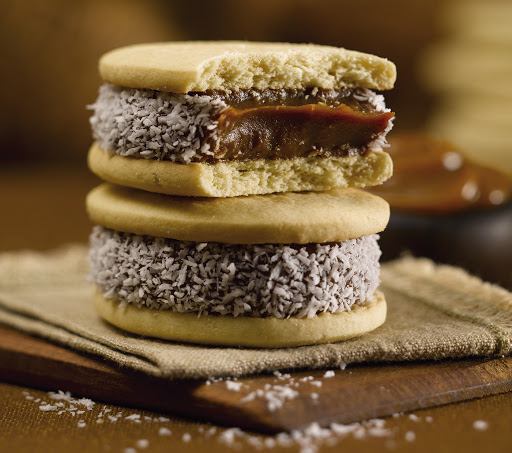
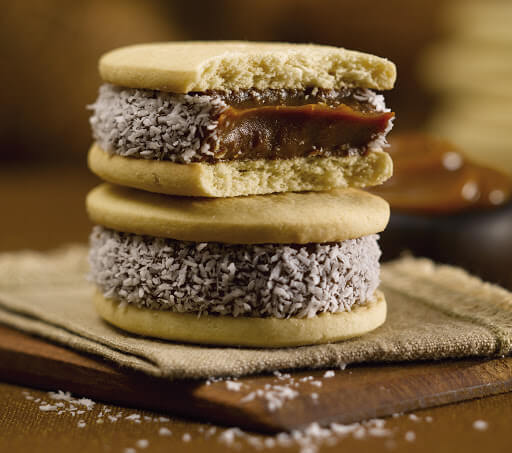
Optimice las img y agregue php

diff --git a/index.html b/index.html
@@ -26,6 +26,77 @@
   <link href="https://unpkg.com/aos@2.3.1/dist/aos.css" rel="stylesheet">
   <!--Tittle-->
   <title>Cachafaz - Responsables de sacarte las ganas de comer algo dulce</title>
+  <!--Estilo del formulario-->
+  <style>
+    form {
+  /* Centrar el formulario en la página */
+  margin: 1rem auto;
+  width: auto;
+
+}
+
+ul {
+  list-style: none;
+  padding: 0;
+  margin: 0;
+}
+
+form li + li {
+  margin-top: 1rem;
+}
+
+label {
+  /* Tamaño y alineación uniforme */
+  display: inline-block;
+  width: 4rem;
+  text-align: center;
+  
+}
+
+input,
+textarea {
+  /* Para asegurarse de que todos los campos de texto tienen la misma configuración de letra
+     Por defecto, las áreas de texto tienen un tipo de letra monoespaciada 
+  font: 1em sans-serif; */
+
+  /* Tamaño uniforme del campo de texto */
+  width: 20rem;
+  box-sizing: border-box;
+  background-color: rgba(197, 161, 71, 0.726);
+
+  /* Hacer coincidir los bordes del campo del formulario */
+  border: 1px solid black;
+  border-radius: 0.2rem;
+}
+
+input:focus,
+textarea:focus {
+  /* Destacado adicional para elementos que tienen el cursor */
+  border-color: #000;
+}
+
+textarea {
+  /* Alinear los campos de texto multilínea con sus etiquetas */
+  vertical-align: top;
+
+  /* Proporcionar espacio para escribir texto */
+  height: 5rem;
+}
+
+.button {
+  /* Alinear los botones con los campos de texto */
+  padding-left: 90px; /* mismo tamaño que los elementos de la etiqueta */
+}
+
+button {
+  /* Este margen adicional representa aproximadamente el mismo espacio que el espacio
+     entre las etiquetas y sus campos de texto */
+  border: 2px outset black;
+  padding: 0.2rem;
+  background-color: rgba(197, 161, 71, 0.726);
+  color: #000;
+}
+  </style>
 </head>
 
 <body>
@@ -75,7 +146,7 @@
             alfajores que en un primer momento era de maicena.
           </p>
           <p class="bottom link-nosotros">
-            <a href="/pages/nosotros.html" title="Acceso directo a la pestaña Quienes Somos"> Saber más.</a>
+            <a href="nosotros.html" title="Acceso directo a la pestaña Quienes Somos"> Saber más.</a>
           </p>
         </div>
 
@@ -93,7 +164,7 @@
             <li>Algunos productos son aptos para celiacos.</li>
             <li>Multiples Variedades.</li>
           </ul>
-          <p class="bottom link-products"><a href="./pages/productos.html" title="Acceso directo a la pestaña Productos"> Ver más.</a></p>
+          <p class="bottom link-products"><a href="productos.html" title="Acceso directo a la pestaña Productos"> Ver más.</a></p>
         </div>
 
       </div>
@@ -197,9 +268,46 @@
   
   <!--Footer-->
   <footer class="footer texto" id="contacto">
-    <div class="container-footer">
+    <div class=" row container-footer">
       <!--Colum1-->
-      <div class="colum1">
+      <div class="col-12 col-sm-3 col-lg-3 colum1">
+        <h4>Contáctanos</h4>
+        <form action="enviar.php" method="POST" name="contact-form">
+          <ul>
+            <li>
+              <label for="name">Nombre</label>
+              <input type="text" id="name" name="nombre">
+            </li>
+            <li>
+              <label for="mail">Email</label>
+              <input type="email" name="email" id="mail">
+            </li>
+
+            <li>
+              <label for="mensaje"> Mensaje</label>
+              <textarea name="mensaje" id="mensaje" cols="30" rows="1"></textarea>
+    
+              <li class="button">
+                <button type="submit">
+                  Enviar
+                </button>
+              </li>
+            </li>
+
+          </ul>
+
+        </form>
+      </div>
+
+    
+      <!--fin colum1-->
+      <!--colum2-->
+      <div class=" col-12 col-sm-3 col-lg-3 text-center colum2">
+        <a href="index.html"> <img src="image/LogoCachafaz.png" alt="Logo de la empresa" loading="lazy" title="Logo de la empresa"></a>
+      </div>
+      <!--fin colum2-->
+      <!--colum3-->
+      <div class=" col-12 col-sm-3 col-lg-3 colum3">
         <h4>Contacto</h4>
         <ul class="list-footer">
           <li>Cachafaz.oficial@gmail.com</li>
@@ -214,21 +322,8 @@
           </div>
         </div>
       </div>
-      <!--fin colum1-->
-      <!--colum2-->
-      <div class="colum2">
-        <a href="index.html"> <img src="image/LogoCachafaz.png" alt="Logo de la empresa" loading="lazy" title="Logo de la empresa"></a>
-      </div>
-      <!--fin colum2-->
-      <!--colum3-->
-      <div class="colum3">
-        <h4>Tienda Online</h4>
-        <ul>
-          <li>Galletitas</li>
-          <li>Alfajores</li>
-          <li>Conitos</li>
-        </ul>
-      </div>
+
+
     </div>
     <!--fin colum3-->
 

diff --git a/nosotros.html b/nosotros.html
@@ -96,7 +96,7 @@
     <footer class="footer texto" id="contacto">
         <div class="container-footer">
             <!--Colum1-->
-            <div class="colum1">
+            <div class="colum3">
                 <h3>Contacto</h3>
                 <ul class="list-footer">
                     <li>Cachafaz.oficial@gmail.com</li>
@@ -104,22 +104,22 @@
                 </ul>
                 <div class="redes">
                     <div class="logos-redes">
-                        <a href="www.facebook.com" class="fb"><img src="image/Facebook.png" alt="Logo de Facebook"></a>
+                        <a href="www.facebook.com" class="fb"><img src="image/Facebook.png" alt="Logo de Facebook" title="Logo de Facebook"></a>
                     </div>
                     <div class="logos-redes">
                         <a href="www.instagram.com" class="ig"><img src="image/Instagram.jpg"
-                                alt="Logo de instagram"></a>
+                                alt="Logo de instagram" title="Logo de Instagram"></a>
                     </div>
                 </div>
             </div>
             <!--fin colum1-->
             <!--colum2-->
             <div class="colum2">
-                <a href="index.html"> <img src="image/LogoCachafaz.png" alt=""></a>
+                <a href="index.html"> <img src="image/LogoCachafaz.png" title="Logo de la empresa Cachafaz" alt="Logo de la empresa Cachafaz"></a>
             </div>
             <!--fin colum2-->
             <!--colum3-->
-            <div class="colum3">
+            <div class="colum4">
                 <h3>Tienda Online</h3>
                 <ul>
                     <li>Galletitas</li>
@@ -129,11 +129,6 @@
             </div>
         </div>
         <!--fin colum3-->
-        <div class="logo-wpp">
-            <a href="https://www.whatsapp.com/?lang=es" target="_blank">
-                <img src="image/whatsapp.png" alt="logo de whatsapp">
-            </a>
-        </div>
 
 
         <!--Footer Copyright-->

diff --git a/css/style.css b/css/style.css
@@ -321,6 +321,7 @@ h4 {
   margin-top: 2rem;
   justify-content: space-around;
   text-align: center;
+  align-items: center;
 }
 @media (max-width: 414px) {
   .footer .container-footer {
@@ -331,25 +332,25 @@ h4 {
   cursor: pointer;
   list-style: none;
 }
-.footer .container-footer .colum1 {
+.footer .container-footer .colum3 {
   max-width: 400px;
 }
-.footer .container-footer .colum1 ul {
+.footer .container-footer .colum3 ul {
   margin-top: 0.6rem;
 }
 @media (min-width: 415px) and (max-width: 1263px) {
-  .footer .container-footer .colum1 ul {
+  .footer .container-footer .colum3 ul {
     padding-right: 1rem;
   }
 }
-.footer .container-footer .colum1 .redes .logos-redes {
+.footer .container-footer .colum3 .redes .logos-redes {
   display: inline-flex;
   margin: 0.7rem 0;
 }
-.footer .container-footer .colum1 .redes .logos-redes .fb {
+.footer .container-footer .colum3 .redes .logos-redes .fb {
   margin-right: 1rem;
 }
-.footer .container-footer .colum1 .redes .logos-redes img {
+.footer .container-footer .colum3 .redes .logos-redes img {
   width: 2rem;
   border-radius: 0.8rem;
 }
@@ -357,7 +358,12 @@ h4 {
   max-width: 400px;
 }
 .footer .container-footer .colum2 img {
-  width: 8rem;
+  width: 12rem;
+}
+@media (max-width: 414px) {
+  .footer .container-footer .colum2 img {
+    width: 8rem;
+  }
 }
 
 /*copyright*/

diff --git a/scss/components/_footer.scss b/scss/components/_footer.scss
@@ -12,6 +12,7 @@
         margin-top: 2rem;
         justify-content: space-around;
         text-align: center;
+        align-items: center;
         @media (max-width:414px) {
             display: block;
         }
@@ -19,7 +20,7 @@
             cursor: pointer;
             list-style: none;
         }
-        .colum1 {
+        .colum3 {
             @include colum(400px);
             
             ul {
@@ -49,7 +50,11 @@
             @include colum (400px);
 
             img {
-                width: 8rem;
+                width: 12rem;
+                @media (max-width:414px) {
+                    width: 8rem;
+                }
+
             }
         }
     }

diff --git a/productos.html b/productos.html
@@ -120,7 +120,7 @@
     <footer class="footer texto" id="contacto">
         <div class="container-footer">
             <!--Colum1-->
-            <div class="colum1">
+            <div class="colum3">
                 <h3>Contacto</h3>
                 <ul class="list-footer">
                     <li>Cachafaz.oficial@gmail.com</li>
@@ -143,7 +143,7 @@
             </div>
             <!--fin colum2-->
             <!--colum3-->
-            <div class="colum3">
+            <div class="colum4">
                 <h3>Tienda Online</h3>
                 <ul>
                     <li>Galletitas</li>

diff --git a/enviar.php b/enviar.php
@@ -1,0 +1,31 @@
+<?php
+$nombre = $_POST ["nombre"];
+$mail = $_POST["email"];
+$mensaje = $_POST["mensaje"];
+
+
+$header = 'From: ' . $mail . " \r\n";
+$header .= "X-Mailer: PHP/" . phpversion() . " \r\n";
+$header .= "Mime-Version: 1.0 \r\n";
+$header .= "Content-Type: text/plain";
+
+$mensaje = "Este mensaje fue enviado por " . $nombre . ",\r\n"; //nombre del cliente//
+$mensaje .= "Su e-mail es: " . $mail . " \r\n"; //mail del cliente//
+$mensaje .= "Mensaje: " . $_POST[' mensaje '] . " \r\n"; //Mensaje del cliente//
+$mensaje .= "Enviado el " . date('d/m/Y', time()); //fecha de emisión de ese mail//
+
+$para = 'francosaave1998@gmail.com'; // El mail a donde van a llegar los mensajes
+$asunto = 'Mensaje de mi sitio web'; //asunto que me va a llegar a mi mail cuando se trate de un  mail de la web//
+
+mail($para, $asunto, utf8_decode($mensaje), $header); //magia para que funcione el php//
+
+header('Location:index.html');//para que una ves que toca el boton de enviar le vuelve al home//
+
+
+
+
+
+
+
+
+?>
